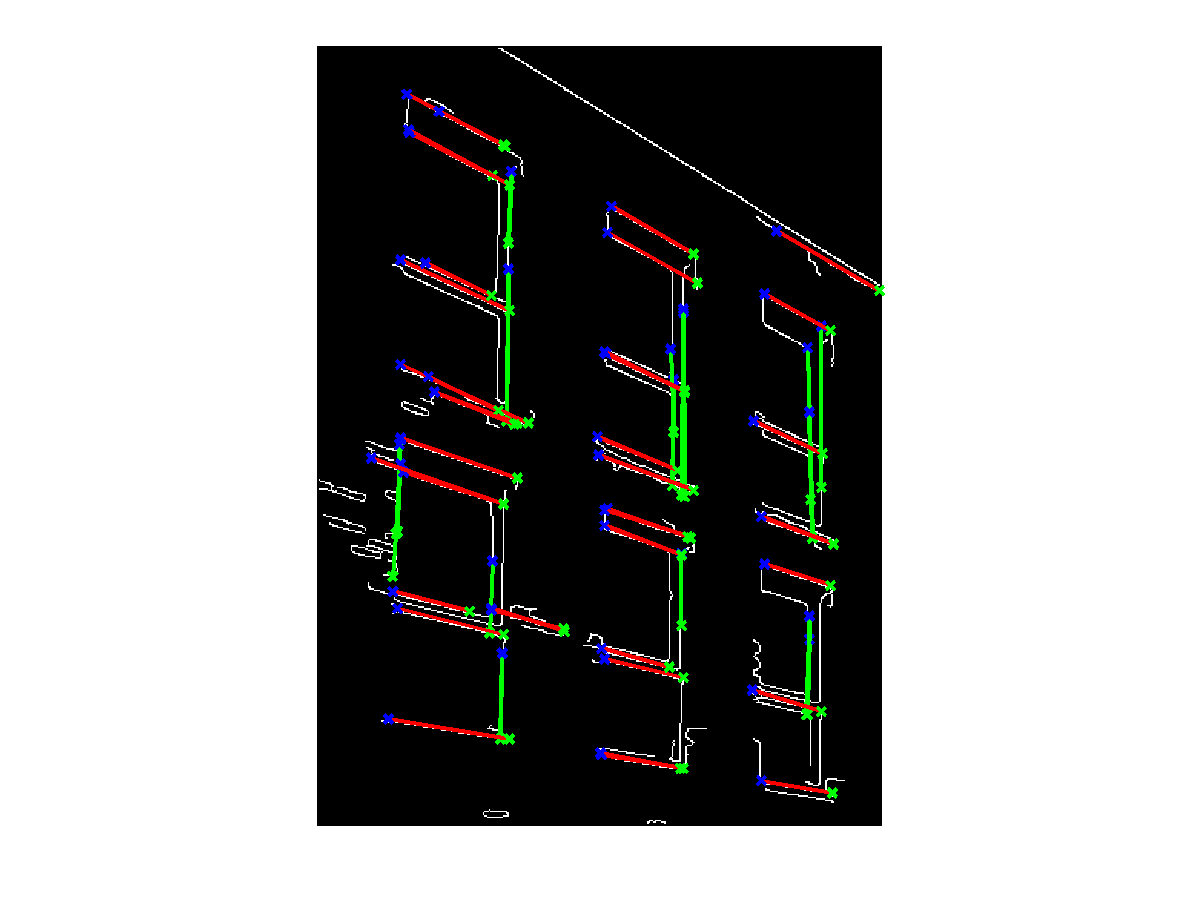
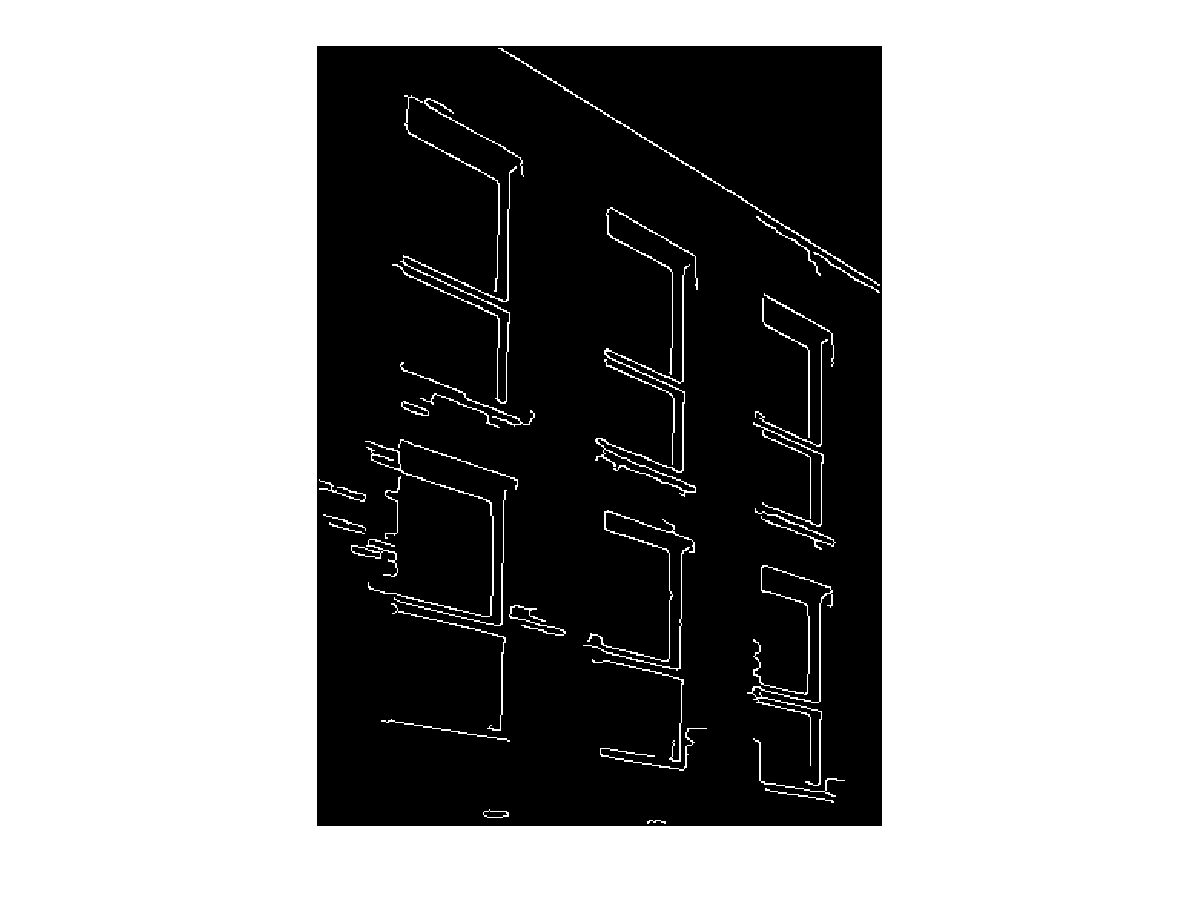
a

diff --git a/doorWindow/houghRect.m b/doorWindow/houghRect.m
@@ -1,54 +1,20 @@
-% calculates the distances from all to all endpoints of the line segments outputed by project2squareHough
-% and plots the ones that have a distance lower then threshold
 close all;
-load('../project2Normal/Houghlines.mat');
-load('../project2Normal/HoughlinesRot.mat');
+% load projected
+%load('../project2Normal/Houghlines.mat');
+%load('../project2Normal/HoughlinesRot.mat');
 
-figure;
-hold on;
-plotHoughlines(Houghlines,'green');
-plotHoughlines(HoughlinesRot,'red');
+load('mats/Houghlines_floriande5447.mat');
+load('mats/HoughlinesRot_floriande5447.mat');
+plotme = 1;
+%cornerInlierThreshold = 0.025
+cornerInlierThreshold = 40
+%crossingAccu = getFeatureIntSect(Houghlines,HoughlinesRot,cornerInlierThreshold, plotme)
 
-for j=1:length(Houghlines)
-	v1Accu = [];
-	v2Accu = [];
-	for k=1:length(HoughlinesRot)
-		v1 = Houghlines(j).point1;
-		v2 = Houghlines(j).point2;
-		p1 = HoughlinesRot(k).point1;
-		p2 = HoughlinesRot(k).point2;
-		v1D = min(euclideanDist(v1,p1), euclideanDist(v1,p2));
-		v2D = min(euclideanDist(v2,p1), euclideanDist(v2,p2));
-		v1Accu = [v1Accu, v1D];
-		v2Accu = [v2Accu, v2D];
-	end
-	[v1min, idxV1min]= min(v1Accu);
-	[v2min, idxV2min]= min(v2Accu);
-	Houghlines(j).point1MinDist    = v1min;
-	Houghlines(j).point1MinDistIdx = idxV1min;
-	Houghlines(j).point2MinDist    = v2min;
-	Houghlines(j).point2MinDistIdx = idxV2min;
-end
-
-[vals, idxSort] = sort([Houghlines.point1MinDist])
-
-% get top nrCorners min houghlines
-%nrCorners = 10;
-%idxSort = idxSort(1:min(nrCorners,length(Houghlines)))
-
-%size(imBW)
-imVote = zeros(508,368);
-
-minDestThresh = 0.02;
-for i=1:length(Houghlines)
-	if Houghlines(i).point1MinDist <= minDestThresh
-		plot(Houghlines(i).point1(1),-Houghlines(i).point1(2), 'k*')
-		%werkt niet omdat het geen goed coordinaten systeem is ivm de projectie:
-		%imVote(Houghlines(i).point1(1),-Houghlines(i).point1(2)) = 1;
-	end
-end
+plotme = 0;
+cornerScaleAccu = getCorners(plotme);
 
 
-figure;
-imshow(imVote,[]);
+% loop through found corners
+% check how many crossings are within certain threshold
+
 

diff --git a/doorWindow/aux/distAndIntersectionPointLineSegment2d.m b/doorWindow/aux/distAndIntersectionPointLineSegment2d.m
@@ -1,0 +1,56 @@
+function [dist, crossing] = distPointToLineSegment2d(p3, p1, p2)
+	p3 = [p3(1);p3(2);0];
+	p1 = [p1(1);p1(2);0];
+	p2 = [p2(1);p2(2);0];
+	% p3 is the point
+	% p1 and p2 span the line
+	
+	% calculate unit vector in direction of p2 p1
+	%p2p1U = (p2-p1)/norm(p2-p1)
+
+	% p3proj is the projection of p3 on line p1p2
+	%p3proj = dot(p2p1U,(p3-p1)) * p2p1U
+
+	p1p2 = p2-p1;
+	p2p1 = p1-p2;
+	p1p3 = p3-p1;
+	p2p3 = p3-p2;
+	
+	dotp1 = dot(p1p2, p1p3);
+	dotp2 = dot(p2p1, p2p3);
+	if (dotp1>=0 && dotp2>=0) % both angels are acute so point lies on line segment
+		%disp('both angles acute point lies on line segment');
+		% for details of formula below see
+		% http://mathworld.wolfram.com/Point-LineDistance3-Dimensional.html
+		dist = sqrt( sum((cross((p3-p1),(p3-p2)) / norm(p2-p1)).^2));
+	elseif (dotp1<0) % closest to point p1
+		%disp('angle p1 obtuse so p1 is closest');
+		dist = euclideanDist(p3,p1);
+		%lineToObj('inpolygon.obj',p3,p1,'red');
+	else % closest to point p2
+		%disp('else so p2 is obtuse p2 is closest');
+		% calc euclidean distance
+		dist = euclideanDist(p3,p2);
+		%lineToObj('inpolygon.obj',p3,p2,'red');
+	end
+	dist = abs(dist);
+	
+	t = -dot((p1-p3),(p2-p1)) / norm(p2-p1)^2;
+	crossing = p1 + t*(p2-p1);
+	crossing = [crossing(1);crossing(2)];
+
+	% see fit3d_report/papers/websites/Distance between....
+	% Ax = p1(1);
+	% Ay = p1(2);
+	% Bx = p2(1);
+	% By = p2(2);
+	% Cx = p3(1);
+	% Cy = p3(2);
+
+	% L = sqrt( (Bx-Ax)^2 + (By-Ay)^2 );
+	% r = ((Cx-Ax)*(Bx-Ax) + (Cy-Ay)*(By-Ay)) / L^2
+	% Px = Ax + r*(Bx-Ax);
+	% Py = Ay + r*(By-Ay);
+	% crossing = [Px;Py];
+
+

diff --git a/doorWindow/houghRectCloseEndpoints.m b/doorWindow/houghRectCloseEndpoints.m
@@ -1,0 +1,54 @@
+% calculates the distances from all to all endpoints of the line segments outputed by project2squareHough
+% and plots the ones that have a distance lower then threshold
+close all;
+load('../project2Normal/Houghlines.mat');
+load('../project2Normal/HoughlinesRot.mat');
+
+figure;
+hold on;
+plotHoughlines(Houghlines,'green');
+plotHoughlines(HoughlinesRot,'red');
+
+for j=1:length(Houghlines)
+	v1Accu = [];
+	v2Accu = [];
+	for k=1:length(HoughlinesRot)
+		v1 = Houghlines(j).point1;
+		v2 = Houghlines(j).point2;
+		p1 = HoughlinesRot(k).point1;
+		p2 = HoughlinesRot(k).point2;
+		v1D = min(euclideanDist(v1,p1), euclideanDist(v1,p2));
+		v2D = min(euclideanDist(v2,p1), euclideanDist(v2,p2));
+		v1Accu = [v1Accu, v1D];
+		v2Accu = [v2Accu, v2D];
+	end
+	[v1min, idxV1min]= min(v1Accu);
+	[v2min, idxV2min]= min(v2Accu);
+	Houghlines(j).point1MinDist    = v1min;
+	Houghlines(j).point1MinDistIdx = idxV1min;
+	Houghlines(j).point2MinDist    = v2min;
+	Houghlines(j).point2MinDistIdx = idxV2min;
+end
+
+[vals, idxSort] = sort([Houghlines.point1MinDist])
+
+% get top nrCorners min houghlines
+%nrCorners = 10;
+%idxSort = idxSort(1:min(nrCorners,length(Houghlines)))
+
+%size(imBW)
+imVote = zeros(508,368);
+
+minDestThresh = 0.02;
+for i=1:length(Houghlines)
+	if Houghlines(i).point1MinDist <= minDestThresh
+		plot(Houghlines(i).point1(1),-Houghlines(i).point1(2), 'k*')
+		%werkt niet omdat het geen goed coordinaten systeem is ivm de projectie:
+		%imVote(Houghlines(i).point1(1),-Houghlines(i).point1(2)) = 1;
+	end
+end
+
+
+figure;
+imshow(imVote,[]);
+

diff --git a/doorWindow/getFeatureIntSect.m b/doorWindow/getFeatureIntSect.m
@@ -1,0 +1,51 @@
+% projects line endpoints of vertical lines to the horizontal lines
+% if the tjerkDistance is lesser then a threshold
+% it stores the projection (crossing) coordinate 
+%
+% input
+%  vertical houghlines
+%  horizontal houghlines
+% output
+%
+function crossingAccu = getFeatureIntSect(Houghlines,HoughlinesRot,cornerInlierThreshold, plotme)
+
+if plotme
+	figure;
+	axis square;
+	hold on;
+	plotHoughlines(Houghlines,'green');
+	plotHoughlines(HoughlinesRot,'red');
+end
+
+vertexAccu = [];
+crossingAccu = [];
+
+for j=1:length(Houghlines)
+	v1 = Houghlines(j).point1';
+	v2 = Houghlines(j).point2';
+	vertexAccu = [vertexAccu, v1, v2];
+end
+
+%for i=1:length(vertexAccu)
+for i=1:5
+	p3 = vertexAccu(:,i);
+
+	for j=1:length(HoughlinesRot)
+		p1 = HoughlinesRot(j).point1';
+		p2 = HoughlinesRot(j).point2';
+		if plotme
+			plotHoughlineShort(HoughlinesRot(j),1,'black');
+		end
+		% TODO crossing goede val
+		[dist, crossing] = distAndIntersectionPointLineSegment2d(p3, p1, p2);
+		% lower than the maximum distance between two line segment endpoints
+		if dist<cornerInlierThreshold
+			if plotme
+				plot(p3(1), -p3(2), 'r*');
+				plot(crossing(1),-crossing(2), 'r+','MarkerSize', 10);
+			end
+			axis equal;
+			crossingAccu = [crossingAccu, crossing];
+		end
+	end
+end

diff --git a/doorWindow/getCorners.m b/doorWindow/getCorners.m
@@ -1,3 +1,4 @@
+function cornerScaleAccu = getCorners(plotme)
 close all;
 % TODO make dateset config
 
@@ -32,16 +33,22 @@ CornerParam.nrCorners = 800;
 %CornerParam.QualityLevel = 0.01;
 %CornerParam.SensitivityFactor = 0.04;
 
+i=0;
 scaleRange = (1/4):-(1/16):(1/16);
 for scale=scaleRange;
-	size(imBW)
 	C = corner(imBW, CornerParam.method, CornerParam.nrCorners);
 	CM = cornermetric(imBW);
 	CMadj = imadjust(CM);
-	figure;imshow(CMadj);
-	paramStr = sprintf('src_%s_method_%s_nrCorners_%d_butFound_%d_scale_%s', fileShort, CornerParam.method, CornerParam.nrCorners, size(C,1), num2str(scale));
-	fgC = figure;imshow(imBW);hold on;
-	hold on;plot(C(:,1),C(:,2),'r+','MarkerSize',10);
+	if plotme
+		figure;imshow(CMadj);
+		fgC = figure;imshow(imBW);hold on;
+		hold on;plot(C(:,1),C(:,2),'r+','MarkerSize',10);
+	end
+	%paramStr = sprintf('src_%s_method_%s_nrCorners_%d_butFound_%d_scale_%s', fileShort, CornerParam.method, CornerParam.nrCorners, size(C,1), num2str(scale));
 	%saveas(fgC, [CornerParam.savePath,'result_cornerDet__',paramStr],'png');
 	imBW = imresize(imBWori, scale, 'bicubic');
+	i=i+1
+	cornerScaleAccu(i).C = C;
+	cornerScaleAccu(i).scale = scale;
+	cornerScaleAccu(i).cornerMetricIm = CMadj;
 end

diff --git a/doorWindow/houghRectParts.m b/doorWindow/houghRectParts.m
@@ -18,7 +18,7 @@
 
 close all;
 tic;
-imNr = 5435; file = sprintf('../dataset/FloriandeSet1/medium/undist__MG_%d.jpg', imNr); load('XYangleFilter_floriande_5447.mat'); load('XYcropRegionFloriande5435.mat'); edgeDetectorParam.thresh		= 0.55; HoughParam.ThetaH.StretchAngle	= 30;HoughParam.ThetaV.StretchAngle	= 10;
+imNr = 5435; file = sprintf('../dataset/FloriandeSet1/medium/undist__MG_%d.jpg', imNr); load('XYangleFilter_floriande_5447.mat'); load('XYcropRegionFloriande5435.mat'); edgeDetectorParam.thresh		= 0.55; HoughParam.ThetaH.StretchAngle	= 30;HoughParam.ThetaV.StretchAngle	= 10; fileShort 						= 'floriande5435';
 %imNr = 5447; file = sprintf('../dataset/FloriandeSet1/medium/undist__MG_%d.jpg', imNr); 
 %	load('XYangleFilter_floriande_5447.mat'); 
 %	load('XYcropRegionFloriande5447.mat'); 
@@ -32,7 +32,6 @@ imNr = 5435; file = sprintf('../dataset/FloriandeSet1/medium/undist__MG_%d.jpg',
 plotme							= 1;
 savePath 						= 'results/';
 %fileShort 						= 'aalsmeer6680';
-fileShort 						= 'floriande5447';
 colorModel						= 'HSV_Vchannel';
 %colorModel						= 'RGB';
 HSVmode							= true;

diff --git a/doorWindow/aux/plotHoughlineShort.m b/doorWindow/aux/plotHoughlineShort.m
@@ -1,0 +1,12 @@
+function plotHoughlineShort(Houghline,plotme,colorStr)
+xy = [Houghline.point1; Houghline.point2];
+if plotme
+	plot(xy(:,1),-xy(:,2),'LineWidth',2,'Color',colorStr);
+end
+
+% % Plot beginnings and ends of Houghlines
+% if plotme
+% 	plot(xy(1,1),-xy(1,2),'x','LineWidth',2,'Color','blue');
+% 	plot(xy(2,1),-xy(2,2),'x','LineWidth',2,'Color','green');
+% end
+

diff --git a/doorWindow/aux/euclideanDist.m b/doorWindow/aux/euclideanDist.m
@@ -1,0 +1,2 @@
+function dist = euclideanDist(p3,p2)
+dist = sqrt(sum((p3-p2).^2));

diff --git a/doorWindow/aux/flipYim.m b/doorWindow/aux/flipYim.m
@@ -1,0 +1,1 @@
+%flipYim(imVote);
